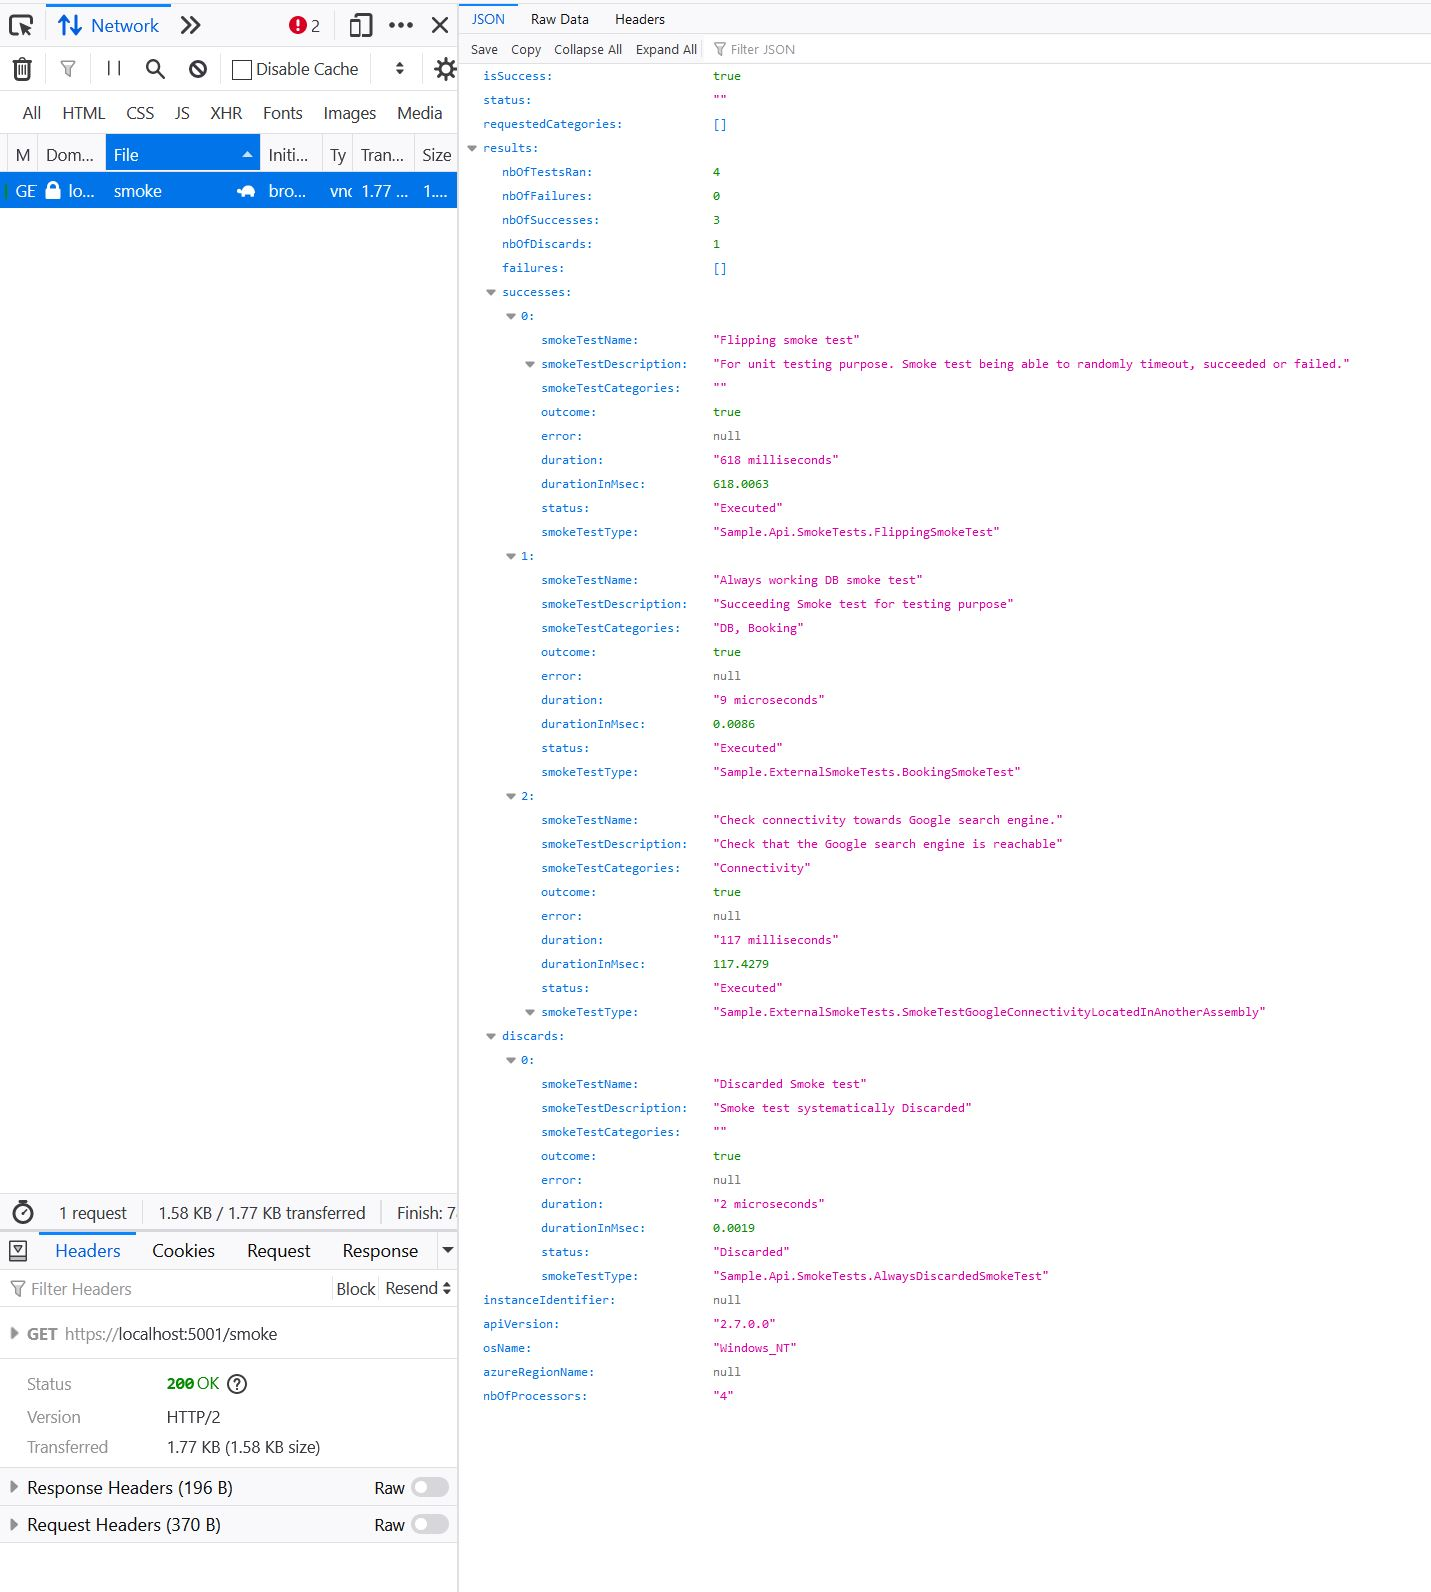
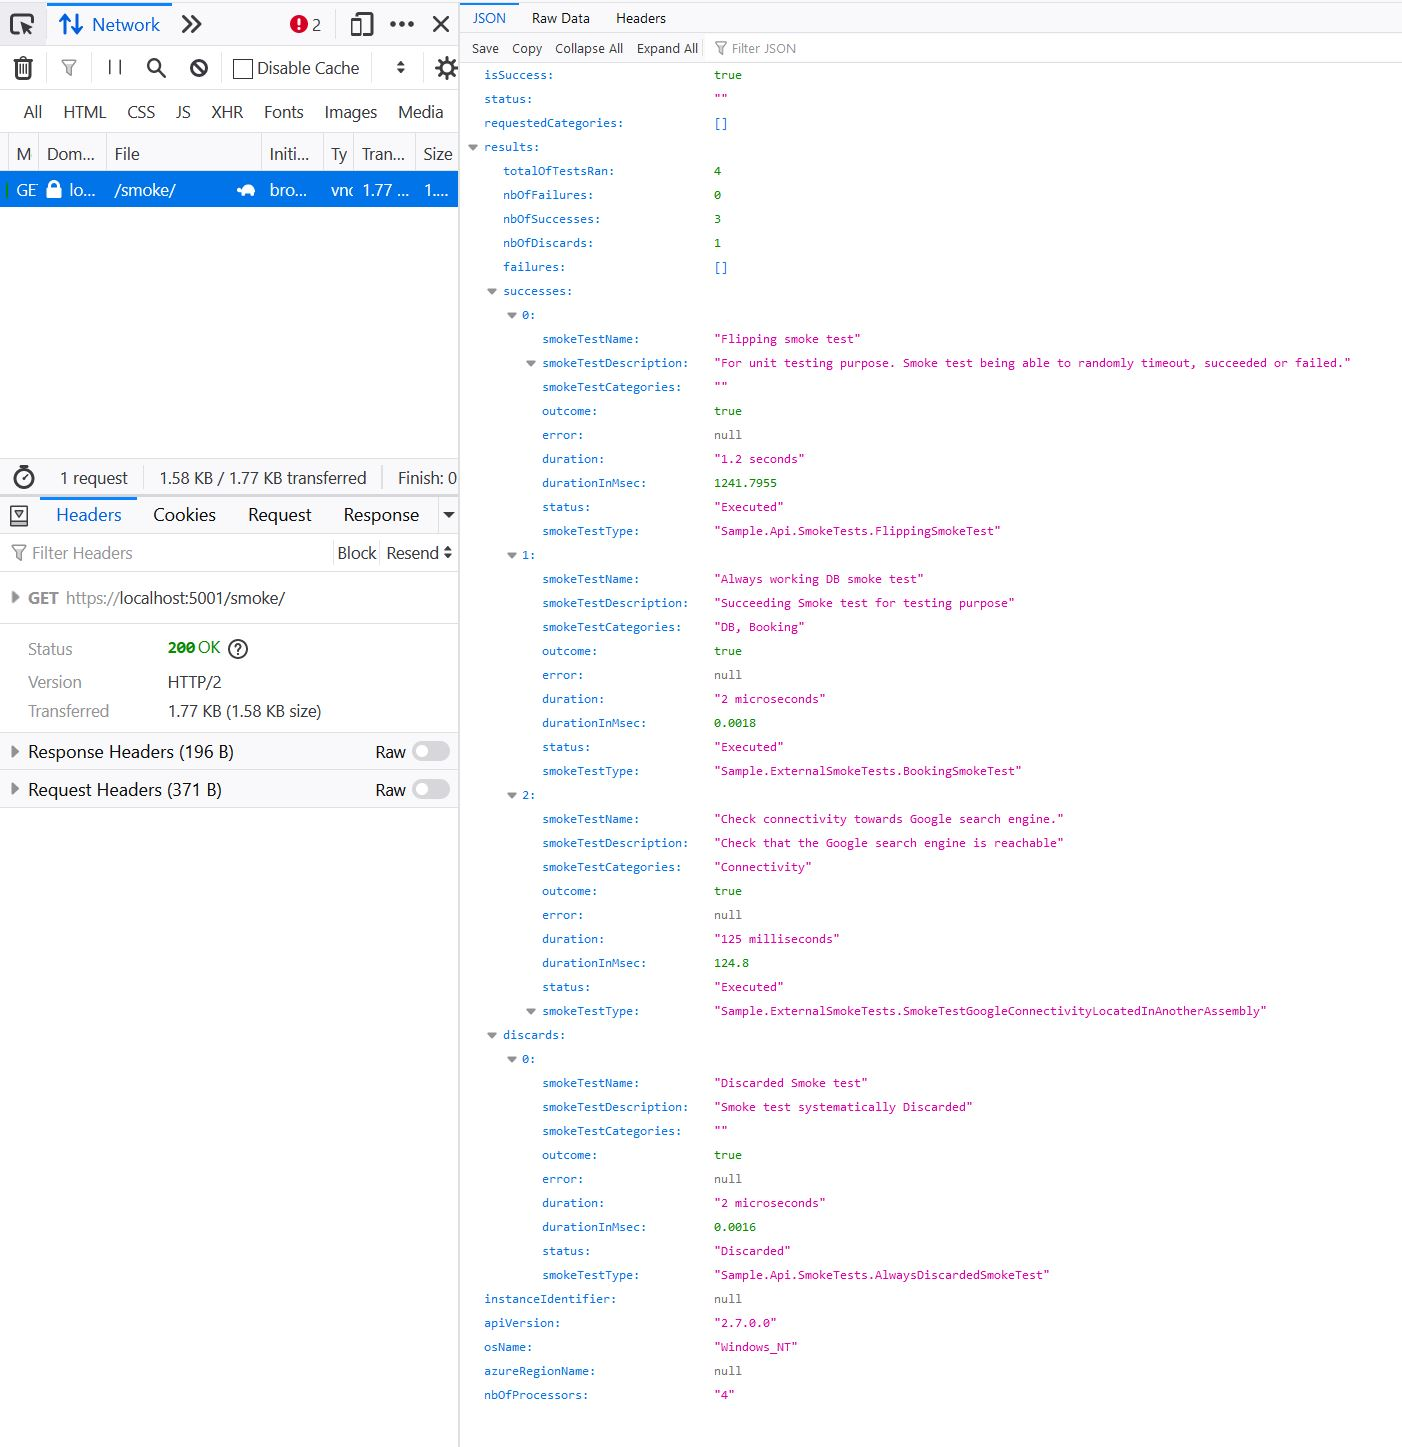
Improve naming of the SmokeTestsResults type.

diff --git a/SmokeMe.Tests/Acceptance/SmokeControllerShould.cs b/SmokeMe.Tests/Acceptance/SmokeControllerShould.cs
@@ -76,7 +76,7 @@ namespace SmokeMe.Tests.Acceptance
             Check.That(stopwatch.Elapsed).IsLessThan(TimeSpan.FromMilliseconds(globalTimeoutInMsec + acceptableDeltaInMsec));
             Check.That(reportDto.IsSuccess).IsFalse();
             Check.That(reportDto.Status).IsEqualTo("One or more smoke tests have timeout (global timeout is: 5 seconds)");
-            Check.That(reportDto.Results.NbOfTestsRan).IsEqualTo(2);
+            Check.That(reportDto.Results.TotalOfTestsRan).IsEqualTo(2);
             Check.That(reportDto.Results.NbOfSuccesses).IsEqualTo(1);
             Check.That(reportDto.Results.NbOfFailures).IsEqualTo(1);
 
@@ -126,7 +126,7 @@ namespace SmokeMe.Tests.Acceptance
             var reportDto = response.CheckIsError<SmokeTestsSessionReportDto>(HttpStatusCode.NotImplemented);
 
             Check.That(reportDto.IsSuccess).IsFalse();
-            Check.That(reportDto.Results.NbOfTestsRan).IsEqualTo(0);
+            Check.That(reportDto.Results.TotalOfTestsRan).IsEqualTo(0);
             Check.That(reportDto.Status).IsEqualTo($"No smoke test have been found in your executing assemblies. Start adding (not ignored) {nameof(SmokeTest)} types in your code base so that the SmokeMe library can detect and run them.");
         }
 
@@ -141,7 +141,7 @@ namespace SmokeMe.Tests.Acceptance
             var response = await controller.ExecuteSmokeTests();
 
             var reportDto = response.CheckIsError<SmokeTestsSessionReportDto>(HttpStatusCode.ServiceUnavailable);
-            Check.That(reportDto.Results.NbOfTestsRan).IsEqualTo(0);
+            Check.That(reportDto.Results.TotalOfTestsRan).IsEqualTo(0);
             Check.That(reportDto.IsSuccess).IsFalse();
             Check.That(reportDto.Status).IsEqualTo($"Smoke tests execution not enabled. Set the '{Constants.IsEnabledConfigurationKey}' configuration key to true if you want to enable it.");
         }
@@ -160,7 +160,7 @@ namespace SmokeMe.Tests.Acceptance
             response.CheckIsOk200();
             var reportDto = response.ExtractValue<SmokeTestsSessionReportDto>();
 
-            Check.That(reportDto.Results.NbOfTestsRan).IsEqualTo(1);
+            Check.That(reportDto.Results.TotalOfTestsRan).IsEqualTo(1);
 
             // Always positive smoke test after a delay
             Check.That(reportDto.Results.Successes[0].SmokeTestName).IsEqualTo("Always working DB smoke test");
@@ -181,7 +181,7 @@ namespace SmokeMe.Tests.Acceptance
             response.CheckIsError<SmokeTestsSessionReportDto>(HttpStatusCode.InternalServerError);
             var reportDto = response.ExtractValue<SmokeTestsSessionReportDto>();
 
-            Check.That(reportDto.Results.NbOfTestsRan).IsEqualTo(2);
+            Check.That(reportDto.Results.TotalOfTestsRan).IsEqualTo(2);
 
             // Always positive smoke test after a delay
             Check.That(reportDto.Results.Failures[0].SmokeTestName).IsEqualTo("Failing on purpose");
@@ -206,7 +206,7 @@ namespace SmokeMe.Tests.Acceptance
             response.CheckIsError<SmokeTestsSessionReportDto>(HttpStatusCode.NotImplemented);
             var reportDto = response.ExtractValue<SmokeTestsSessionReportDto>();
 
-            Check.That(reportDto.Results.NbOfTestsRan).IsEqualTo(0);
+            Check.That(reportDto.Results.TotalOfTestsRan).IsEqualTo(0);
             Check.That(reportDto.Status).IsEqualTo(@$"No smoke test with [Category(""{nonExistingCategoryName}"")] attribute have been found in your executing assemblies. Check that you have one or more (not ignored) ICheckSmoke types in your code base with the declared attribute [Category(""{nonExistingCategoryName}"")] so that the SmokeMe library can detect and run them.");
         }
 
@@ -224,7 +224,7 @@ namespace SmokeMe.Tests.Acceptance
             response.CheckIsError<SmokeTestsSessionReportDto>(HttpStatusCode.NotImplemented);
             var reportDto = response.ExtractValue<SmokeTestsSessionReportDto>();
 
-            Check.That(reportDto.Results.NbOfTestsRan).IsEqualTo(0);
+            Check.That(reportDto.Results.TotalOfTestsRan).IsEqualTo(0);
             Check.That(reportDto.Status).IsEqualTo(@$"No smoke test with [Category(""Cat1"")] or [Category(""Cat2"")] or [Category(""Cat3"")] attributes have been found in your executing assemblies. Check that you have one or more (not ignored) ICheckSmoke types in your code base with the expected declared [Category] attributes so that the SmokeMe library can detect and run them.");
         }
 
@@ -242,7 +242,7 @@ namespace SmokeMe.Tests.Acceptance
             response.CheckIsError<SmokeTestsSessionReportDto>(HttpStatusCode.NotImplemented);
             var reportDto = response.ExtractValue<SmokeTestsSessionReportDto>();
 
-            Check.That(reportDto.Results.NbOfTestsRan).IsEqualTo(0);
+            Check.That(reportDto.Results.TotalOfTestsRan).IsEqualTo(0);
             Check.That(reportDto.Status).IsEqualTo(@$"No smoke test with [Category(""Awkward"")] attribute have been found in your executing assemblies. Check that you have one or more (not ignored) ICheckSmoke types in your code base with the declared attribute [Category(""Awkward"")] so that the SmokeMe library can detect and run them.");
         }
 
@@ -260,7 +260,7 @@ namespace SmokeMe.Tests.Acceptance
             response.CheckIsError<SmokeTestsSessionReportDto>(HttpStatusCode.InternalServerError);
             var reportDto = response.ExtractValue<SmokeTestsSessionReportDto>();
 
-            Check.That(reportDto.Results.NbOfTestsRan).IsEqualTo(2);
+            Check.That(reportDto.Results.TotalOfTestsRan).IsEqualTo(2);
             Check.That(reportDto.RequestedCategories).Contains("FailingSaMere", "DB");
         }
 
@@ -278,7 +278,7 @@ namespace SmokeMe.Tests.Acceptance
             response.CheckIsError<SmokeTestsSessionReportDto>(HttpStatusCode.InternalServerError);
             var reportDto = response.ExtractValue<SmokeTestsSessionReportDto>();
 
-            Check.That(reportDto.Results.NbOfTestsRan).IsEqualTo(6);
+            Check.That(reportDto.Results.TotalOfTestsRan).IsEqualTo(6);
             Check.That(reportDto.RequestedCategories).IsEmpty();
 
             Check.That(reportDto.Results.Failures.Select(x => x.SmokeTestName)).ContainsExactly("Failing on purpose", "Feature toggled test", "Throwing exception after a delay", "Check connectivity towards Google search engine.");
@@ -302,7 +302,7 @@ namespace SmokeMe.Tests.Acceptance
             response.CheckIsError<SmokeTestsSessionReportDto>(HttpStatusCode.InternalServerError);
             var reportDto = response.ExtractValue<SmokeTestsSessionReportDto>();
 
-            Check.That(reportDto.Results.NbOfTestsRan).IsEqualTo(6);
+            Check.That(reportDto.Results.TotalOfTestsRan).IsEqualTo(6);
             Check.That(reportDto.Results.NbOfFailures).IsEqualTo(3);
             Check.That(reportDto.Results.NbOfSuccesses).IsEqualTo(2);
             Check.That(reportDto.Results.NbOfDiscards).IsEqualTo(1);
@@ -327,7 +327,7 @@ namespace SmokeMe.Tests.Acceptance
             response.CheckIsOk200();
             var reportDto = response.ExtractValue<SmokeTestsSessionReportDto>();
 
-            Check.That(reportDto.Results.NbOfTestsRan).IsEqualTo(2);
+            Check.That(reportDto.Results.TotalOfTestsRan).IsEqualTo(2);
             Check.That(reportDto.Results.NbOfSuccesses).IsEqualTo(1);
             Check.That(reportDto.Results.NbOfDiscards).IsEqualTo(1);
             Check.That(reportDto.Results.Successes.Select(x => x.SmokeTestName)).ContainsExactly("Always positive smoke test after a delay");

diff --git a/SmokeMe/Infra/SmokeTestsResults.cs b/SmokeMe/Infra/SmokeTestsResults.cs
@@ -6,7 +6,7 @@ namespace SmokeMe.Infra
     {
         private readonly SmokeTestResultWithMetaDataDto[] _allResults;
 
-        public int NbOfTestsRan => _allResults.Length;
+        public int TotalOfTestsRan => _allResults.Length;
 
         public int NbOfFailures => Failures.Length;
 
